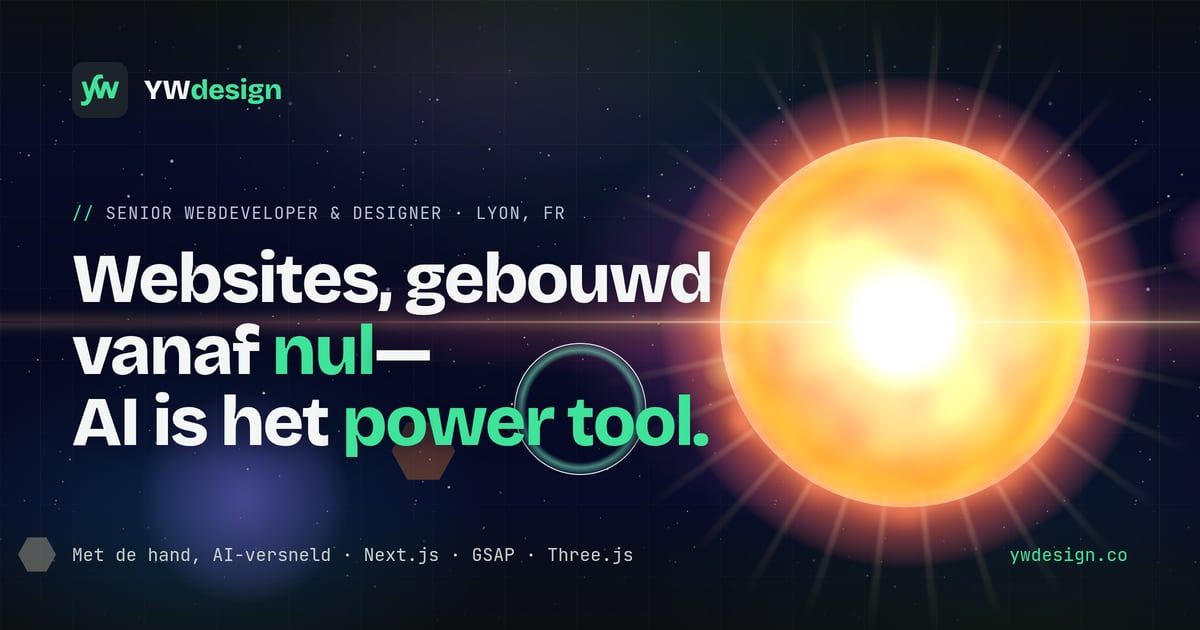
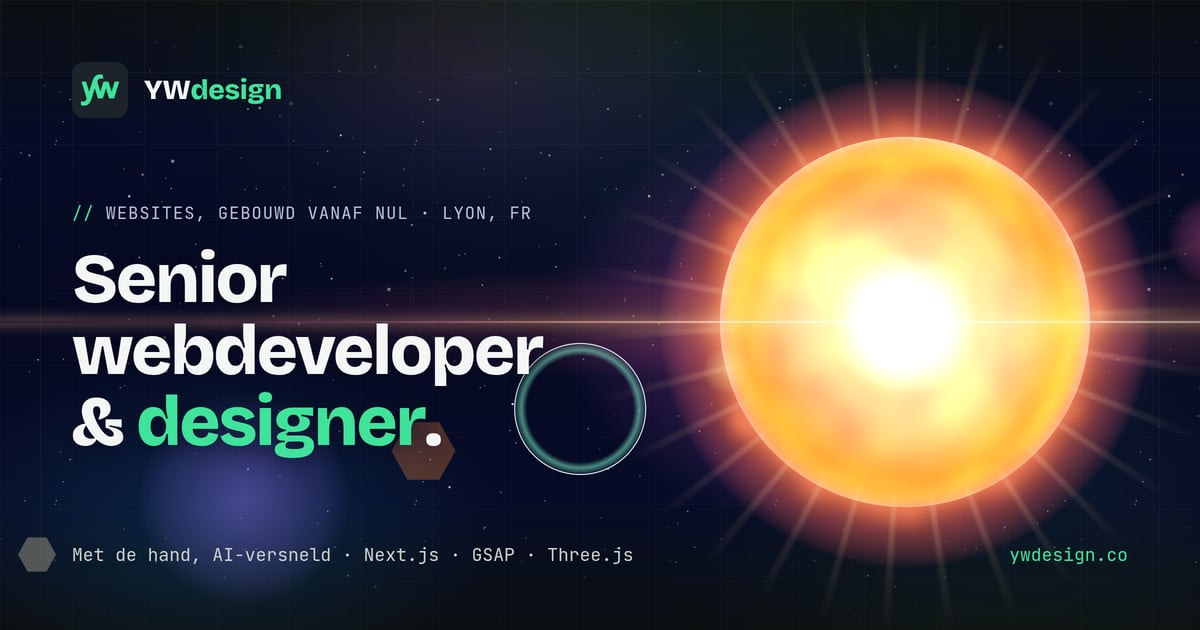
Hero headline back to "Senior web developer & designer." (no AI in the title)
- Hero + social cards (en/fr/nl): the original card title; eyebrow becomes
  "Websites, built from scratch · Lyon, FR" to avoid repeating it
- Hero grid takes full width (the flex-column auto margins shrank it to the shorter copy)

Claude-Session: https://claude.ai/code/session_012bfmvkHU86xHWfZSh5yXor

diff --git a/app/globals.css b/app/globals.css
@@ -572,7 +572,8 @@ header{padding:170px 0 60px;position:relative}
 @media(max-width:980px){.sm-hero .sm-stage{width:min(100%,420px)}} /* flares span the page width, never widen it */
 /* big screens: the hero grid outgrows --maxw so the orb column (≈526px at 1280) keeps growing;
    the stage stays square and short of the viewport height (header pad + toggle + chips) */
-@media(min-width:1440px){.sm-hero .hero-grid{width:100%;max-width:min(1760px,94vw)}
+.sm-hero .hero-grid{width:100%} /* .sunmoon is a flex column → the auto-margin wrap would shrink to its content */
+@media(min-width:1440px){.sm-hero .hero-grid{max-width:min(1760px,94vw)}
   .sm-hero .sm-stage{width:min(100%,calc(100svh - 280px))}}
 /* deep-space band — always dark (local tokens keep copy readable in light theme);
    fades into the page at top/bottom. Star layers slide with the orb's rotation. */

diff --git a/content/home/fr.ts b/content/home/fr.ts
@@ -5,11 +5,11 @@ const nbsp = " ";
 
 export const homeFR = {
   hero: {
-    eyebrow: "Développeur & designer web senior · Lyon, FR",
+    eyebrow: "Des sites conçus de zéro · Lyon, FR",
     headline: [
-      [{ t: "Des sites,", scramble: true }, { t: " conçus" }],
-      [{ t: "de " }, { t: "zéro", scramble: true, accent: true }, { t: " —" }],
-      [{ t: "l’IA, c’est l’" }, { t: "outil.", scramble: true, accent: true }],
+      [{ t: "Développeur", scramble: true }, { t: " &" }],
+      [{ t: "designer", scramble: true, accent: true }, { t: " web" }],
+      [{ t: "senior", scramble: true }, { t: "." }],
     ] as Seg[][],
     sub: [
       { t: "Je suis " },

diff --git a/content/home/en.ts b/content/home/en.ts
@@ -24,11 +24,11 @@ const nbsp = " ";
 
 export const home = {
   hero: {
-    eyebrow: "Senior web developer & designer · Lyon, FR",
+    eyebrow: "Websites, built from scratch · Lyon, FR",
     headline: [
-      [{ t: "Websites,", scramble: true }, { t: " built" }],
-      [{ t: "from " }, { t: "scratch", scramble: true, accent: true }, { t: "—" }],
-      [{ t: "AI is the " }, { t: "power" + nbsp + "tool.", scramble: true, accent: true }],
+      [{ t: "Senior", scramble: true }, { t: " web" }],
+      [{ t: "developer", scramble: true }, { t: " &" }],
+      [{ t: "designer", scramble: true, accent: true }, { t: "." }],
     ] as Seg[][],
     sub: [
       { t: "I'm " },

diff --git a/content/home/nl.ts b/content/home/nl.ts
@@ -5,11 +5,11 @@ const nbsp = " ";
 
 export const homeNL = {
   hero: {
-    eyebrow: "Senior webdeveloper & designer · Lyon, FR",
+    eyebrow: "Websites, gebouwd vanaf nul · Lyon, FR",
     headline: [
-      [{ t: "Websites,", scramble: true }, { t: " gebouwd" }],
-      [{ t: "vanaf " }, { t: "nul", scramble: true, accent: true }, { t: "—" }],
-      [{ t: "AI is het " }, { t: "power" + nbsp + "tool.", scramble: true, accent: true }],
+      [{ t: "Senior", scramble: true }],
+      [{ t: "webdeveloper", scramble: true }],
+      [{ t: "& " }, { t: "designer", scramble: true, accent: true }, { t: "." }],
     ] as Seg[][],
     sub: [
       { t: "Ik ben " },
